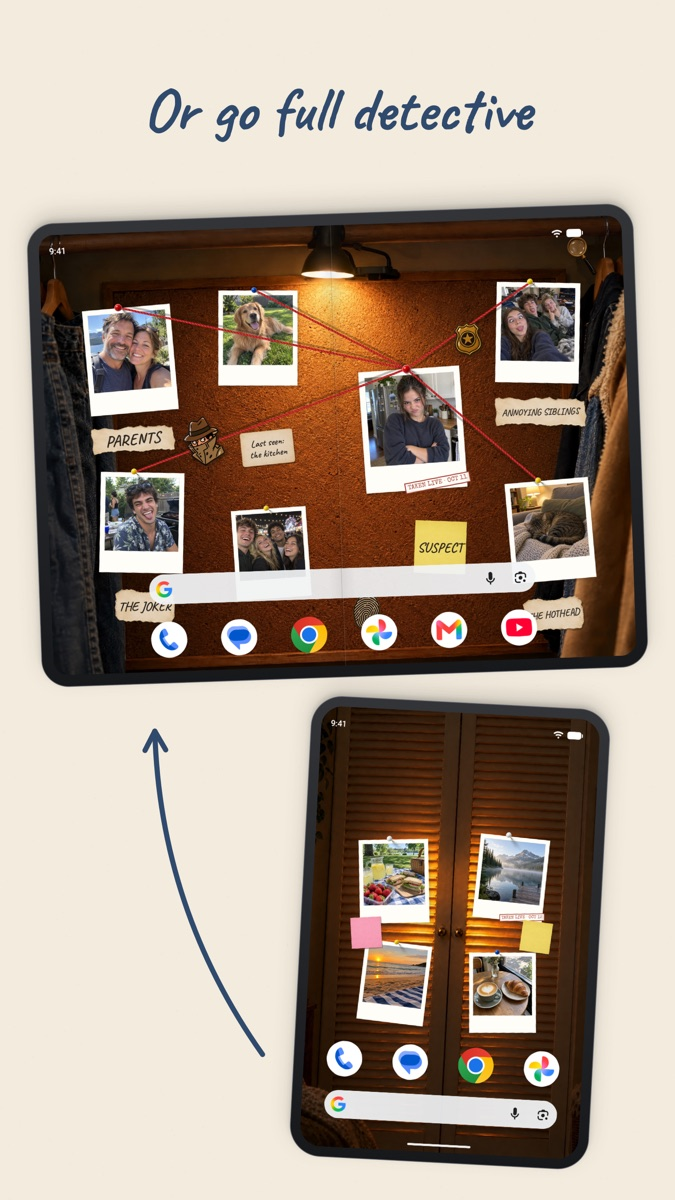
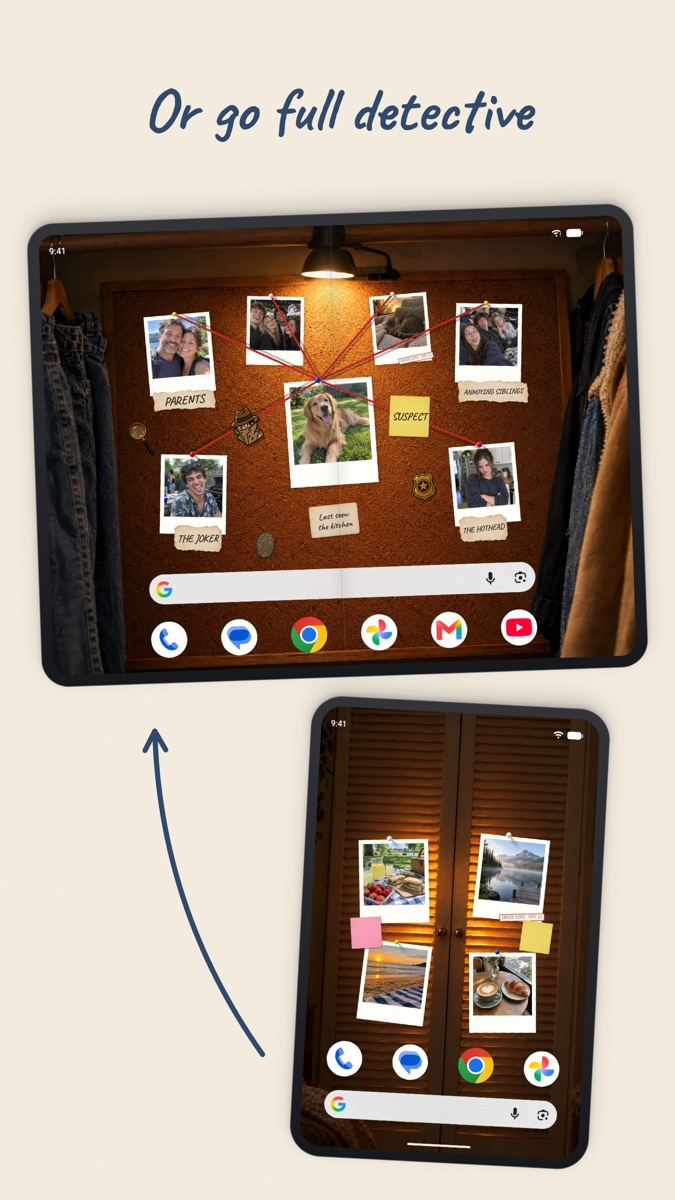
Closet investigation picture: the dog is the suspect, everything on the cork
The founder's pick A (2026-10-19): the dog in the middle with SUSPECT beside it,
everyone around it with their labels, nothing on the clothes. The builder now
writes CNAME the way GitHub does, so a rebuild leaves it unchanged.

Changed region(s): [[0.1244, 0.185, 0.9022, 0.5242], [0.5289, 0.4933, 0.56, 0.5242]]

diff --git a/build.py b/build.py
@@ -215,7 +215,7 @@ if __name__ == "__main__":
     (HERE / "privacy").mkdir(exist_ok=True); (HERE / "privacy/index.html").write_text(privacy())
     (HERE / "support").mkdir(exist_ok=True); (HERE / "support/index.html").write_text(support())
     (HERE / "404.html").write_text(not_found())
-    (HERE / "CNAME").write_text("scrapwallpaper.com\n")
+    (HERE / "CNAME").write_text("scrapwallpaper.com")  # as GitHub writes it (no line break), so a rebuild leaves it unchanged
     (HERE / ".nojekyll").write_text("")
     (HERE / ".gitignore").write_text("mockups/\n.DS_Store\n")
     print("built: index.html, privacy/index.html, support/index.html, 404.html, CNAME")
